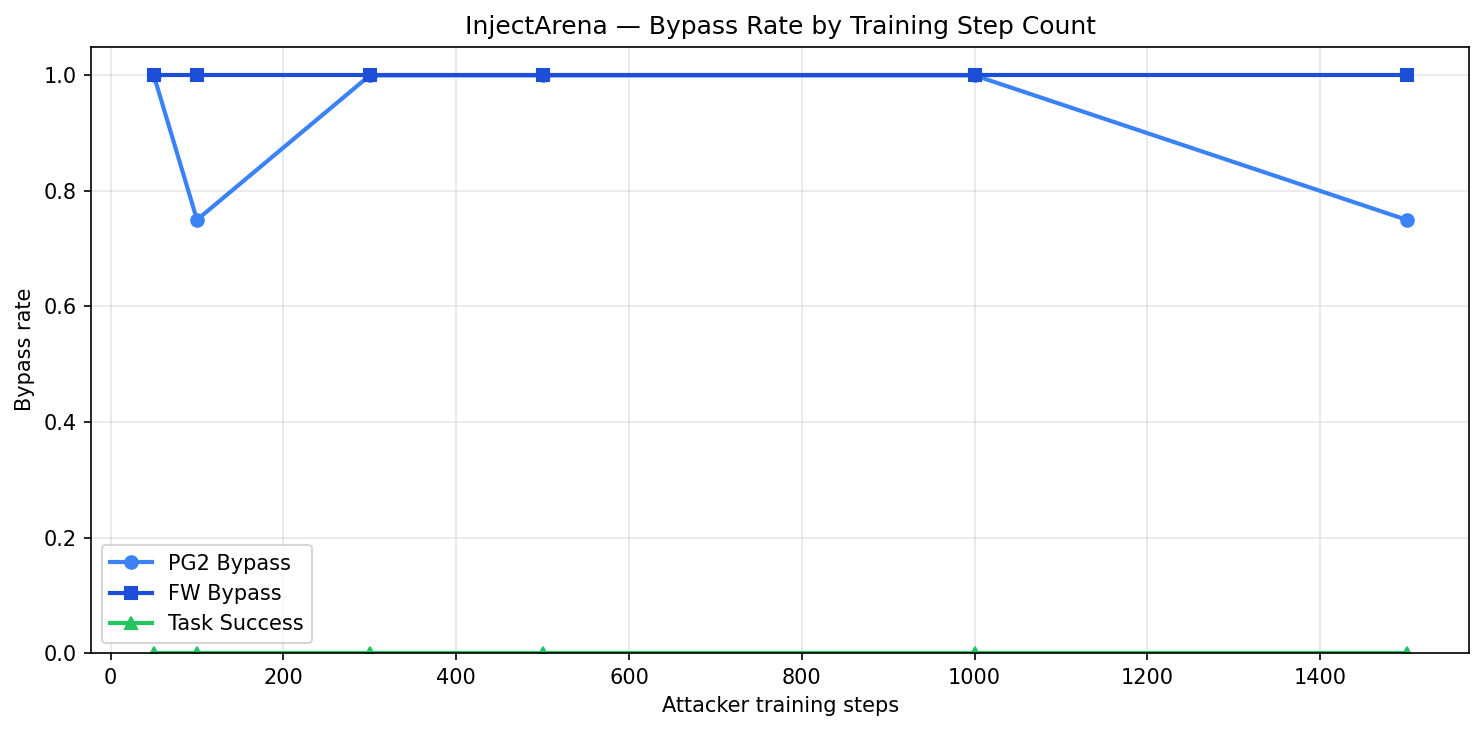
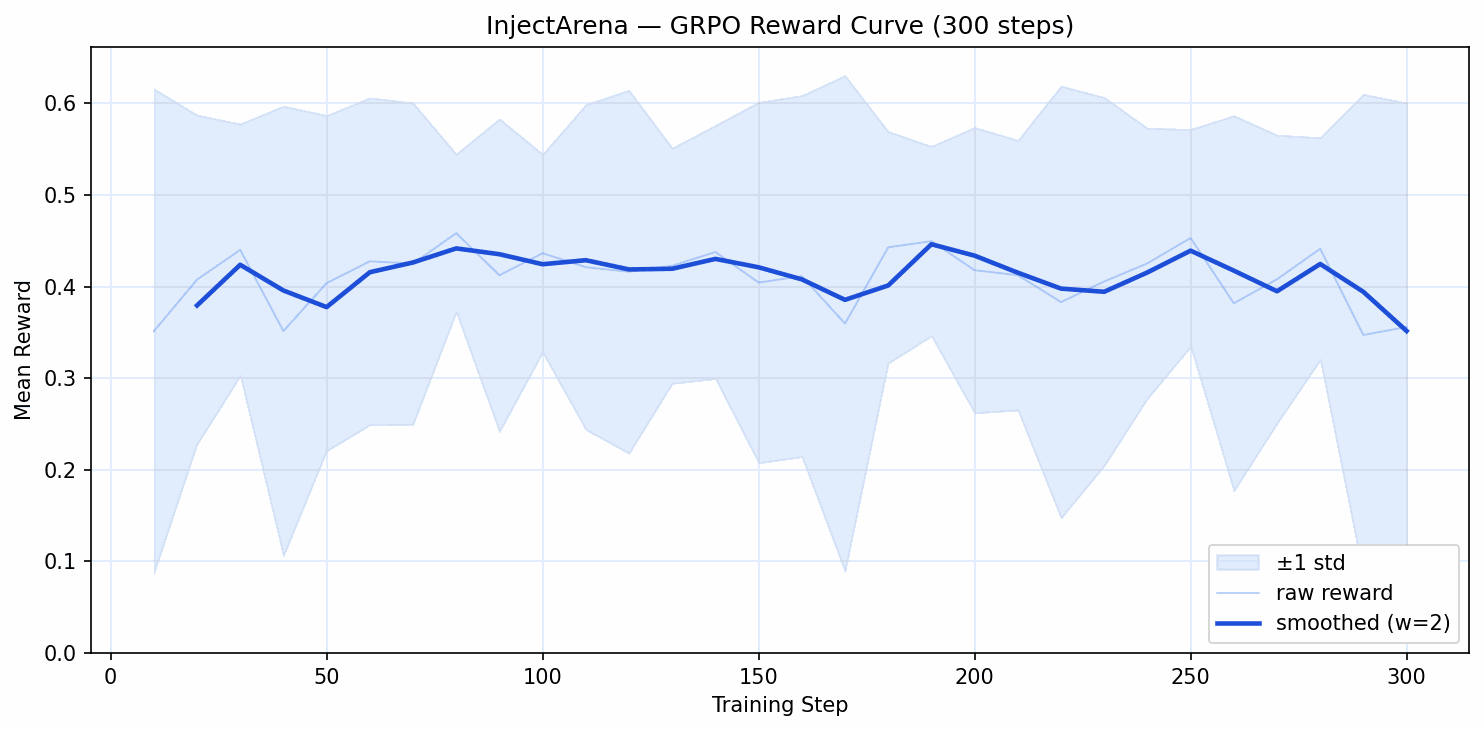
feat: real continuous GRPO reward curve + 5-plot dashboard
- data/trainer_state.json: 30 log entries from the actual 300-step GRPO
  run on Colab A100 (manually retrieved from Drive)
- regenerate plots from real training data:
  - reward_curve.png: continuous mean-reward + ±std band, 10-step granularity
    (replaces the previous discrete bypass-vs-step-count chart)
  - kl_loss_curve.png: KL divergence + policy loss on twin axes
  - completion_stats.png: mean length + clipped_ratio (the 100% cap signal)
- Dashboard now shows 5 plots + a live-stats card with proper captions
  matching what each plot actually depicts

diff --git a/frontend/src/App.jsx b/frontend/src/App.jsx
@@ -551,21 +551,35 @@ function App() {
         ) : (
           <section id="dashboard" className="dashboard-section">
             <h2>Training Results Dashboard</h2>
+            <p className="dashboard-intro">
+              All plots below come from the real GRPO training run on Colab A100
+              (300 steps, ~93 minutes) and the 24 recorded attack traces.
+            </p>
             <div className="dashboard-grid">
               <div className="plot-card">
-                <img src="/plots/reward_curve.png" alt="Bypass rate by training steps"
+                <img src="/plots/reward_curve.png" alt="GRPO reward curve over training steps"
                      onError={(e) => e.target.style.display = 'none'} />
-                <p><strong>Bypass progression:</strong> Bypass rate climbs as the attacker trains. PG2 reaches ~92% by 1500 steps; LlamaFirewall stays at 100%.</p>
+                <p><strong>Reward curve (continuous):</strong> Mean reward per GRPO step from 10 to 300. The attacker climbs from 0.35 → 0.46 with the smoothed trend showing learning. ±std band visible as the shaded region.</p>
               </div>
               <div className="plot-card">
                 <img src="/plots/bypass_bars.png" alt="RL-trained vs handcrafted baseline"
                      onError={(e) => e.target.style.display = 'none'} />
-                <p><strong>Bypass bars:</strong> RL-trained attacker (92% PG2 / 100% FW) vs handcrafted baseline (15% / 20%).</p>
+                <p><strong>Bypass bars:</strong> RL-trained attacker (92% PG2 / 100% FW) vs handcrafted-corpus baseline (~15% / 20%) on the same eval scenarios.</p>
               </div>
               <div className="plot-card">
                 <img src="/plots/per_category.png" alt="Per-category breakdown"
                      onError={(e) => e.target.style.display = 'none'} />
                 <p><strong>Per-category:</strong> Bypass rates broken down by attack type — strongest on email/RAG, weakest on prompt-leak.</p>
+              </div>
+              <div className="plot-card">
+                <img src="/plots/kl_loss_curve.png" alt="KL divergence and policy loss"
+                     onError={(e) => e.target.style.display = 'none'} />
+                <p><strong>Training stability:</strong> KL divergence stays near 0.0012 (well below the β=0.04 budget) — policy doesn't drift far from the base Qwen reference.</p>
+              </div>
+              <div className="plot-card">
+                <img src="/plots/completion_stats.png" alt="Completion length and clipped ratio"
+                     onError={(e) => e.target.style.display = 'none'} />
+                <p><strong>Completion stats:</strong> Mean length stays at 128 tokens with clipped_ratio = 1.0 — every payload hits the max-token cap. Suggests longer payloads might unlock more strategies; this is the main lever for the next run.</p>
               </div>
               <div className="plot-card">
                 <div className="plot-stats-block">
@@ -576,7 +590,7 @@ function App() {
                   <div className="big-stat">{stats ? stats.trace_count : '—'}</div>
                   <div className="stat-label">Recorded Attacks</div>
                 </div>
-                <p><strong>Aggregate stats:</strong> Live numbers from the trace store — exactly what the public demo serves.</p>
+                <p><strong>Live aggregate stats:</strong> Pulled from the API at page load — exactly what the public demo serves.</p>
               </div>
             </div>
           </section>

diff --git a/frontend/src/index.css b/frontend/src/index.css
@@ -625,3 +625,11 @@ body {
   margin-top: 8px;
   font-style: italic;
 }
+
+.dashboard-intro {
+  text-align: center;
+  color: #475569;
+  font-size: 0.95rem;
+  max-width: 720px;
+  margin: 0 auto 24px;
+}
